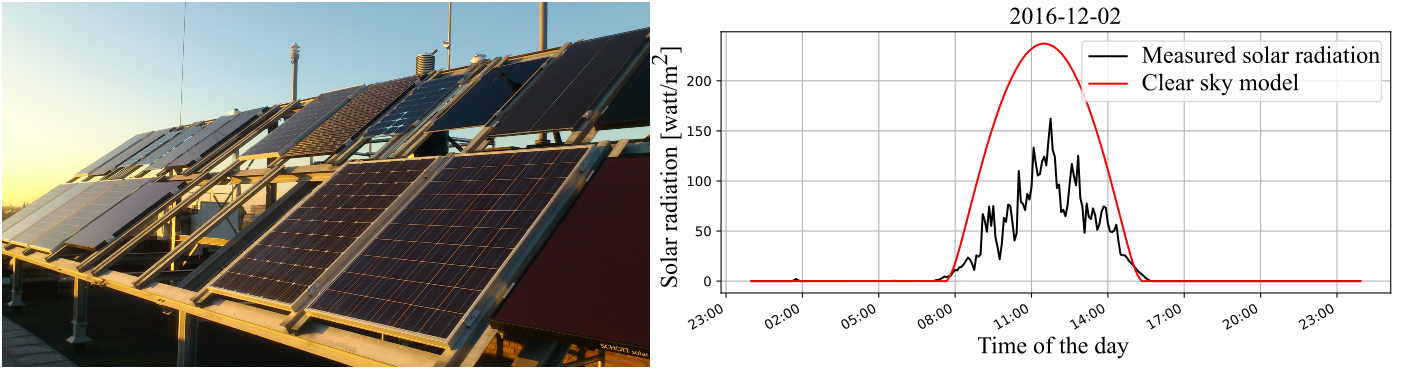
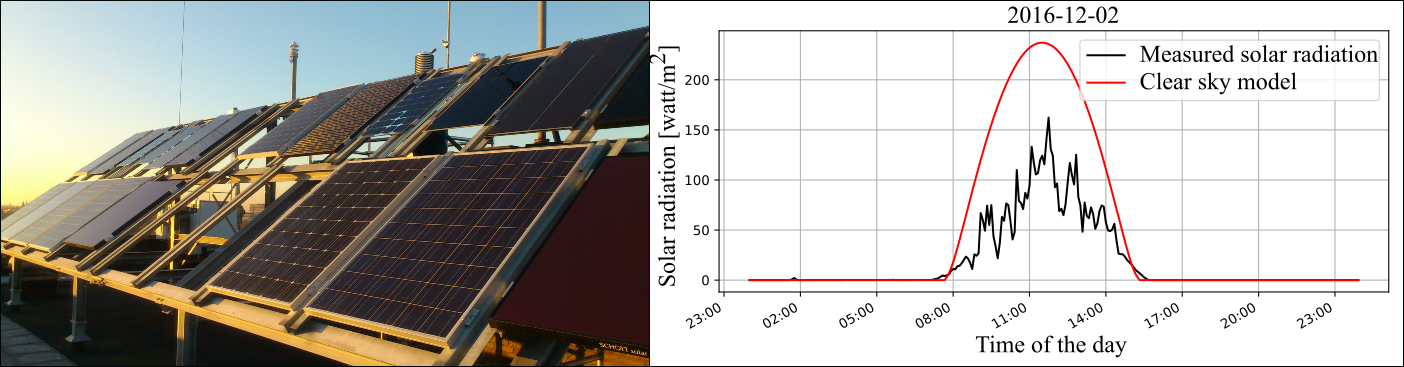
border image

diff --git a/research.md b/research.md
@@ -30,7 +30,7 @@ In this project, we develop low-cost, high resolution, ground-based sky cameras 
 ## [<u>Solar Analytics</u>](https://soumyabrata.github.io/solar/)
 In this project, we use a multi-modal data integration approach, in using various sensors (camera images + weather station recordings) to provide useful insights about solar energy. We use image- and weather-station- data for accurate solar energy estimation and forecasting. This is useful in the field of photovoltaic (PV) generation and integration. [[read more](https://soumyabrata.github.io/solar/)]
     <img src="{{ site.url }}/images/upot.png">
-    *Utrecht Photovoltaic Outdoor Test facility (UPOT). Photo courtesy of Arjen de Waal.* 
+    *(From left to right) Utrecht Photovoltaic Outdoor Test facility (UPOT) with photo courtesy of Arjen de Waal, Solar Irradiance fluctuations on the event of an overcast day.* 
 
 
 
